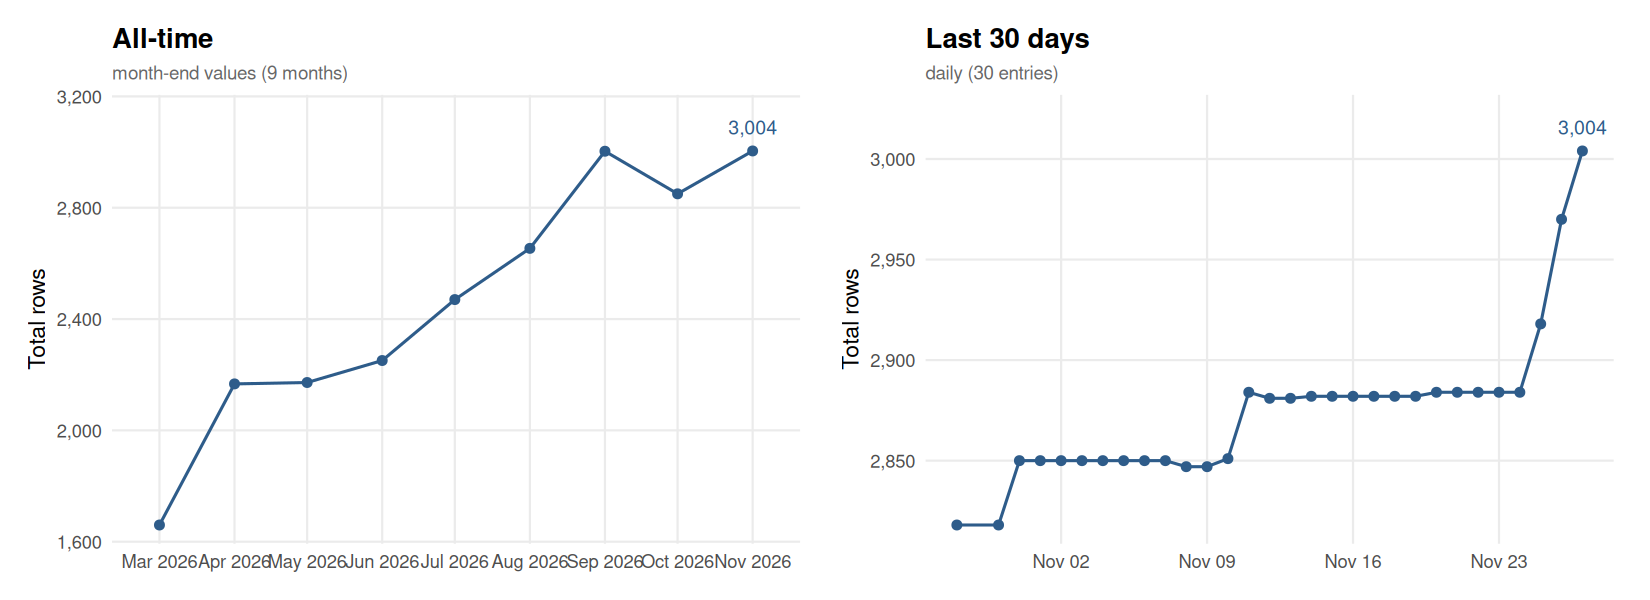
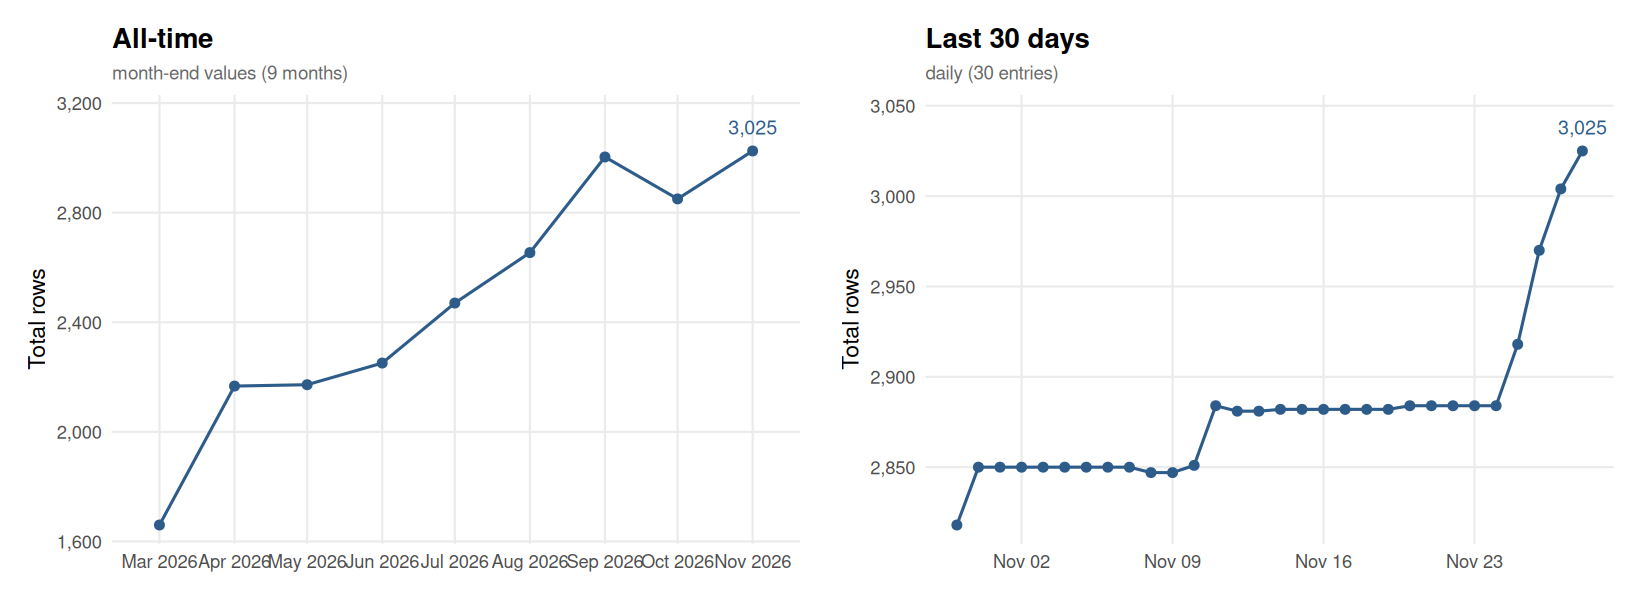
Sync flora.csv from flora-validation [automated]

diff --git a/README.md b/README.md
@@ -447,14 +447,15 @@ For API issues:
 This chart is automatically updated after each daily sync from flora-validation, showing the size of `output/flora.csv` over time.
 
 <!-- FLORA_UPDATE_LOG_START -->
-> **Latest (2026-11-27):** Total = 3,004 | Replications = 2,776 | Reproductions = 228
+> **Latest (2026-11-28):** Total = 3,025 | Replications = 2,796 | Reproductions = 229
 
 ![FLoRA dataset size over time](output/flora_history.png)
 
-<details><summary>Full history (245 entries)</summary>
+<details><summary>Full history (246 entries)</summary>
 
 | Date | Total | Replications | Reproductions |
 |------|------:|-------------:|--------------:|
+| 2026-11-28 | 3025 | 2796 | 229 |
 | 2026-11-27 | 3004 | 2776 | 228 |
 | 2026-11-26 | 2970 | 2742 | 228 |
 | 2026-11-25 | 2918 | 2692 | 226 |
